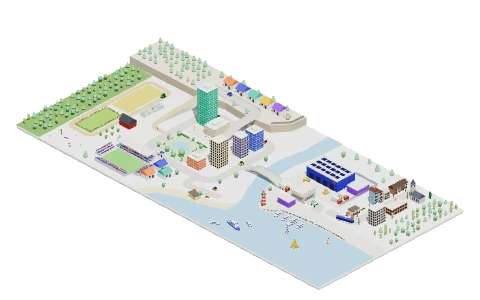
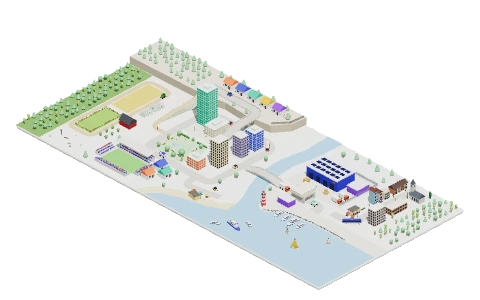
feat: Brightwater's streets meet at junctions, and its traffic drives on across them (#74)
- The ring road is cut into three roads (Ring road, Ring road (south-east), Ring road (south-west)) at T-junctions with the harbour road, the beach road and the hill trail, so the roads meet as one surface and the ring's markings stop there
- Cars, vans, the bus and the harbour trucks drive on from road to road; traffic on the ring keeps off the hill trail, and the cyclist keeps to it
- The high street isn't connected, so the tram has it to itself; the harbour road still ends in its turning area on the quay
- A lower, shorter bridge on the harbour road, and the high street starting at 29.5 (from the owner's edited world)
- Starter pictures made again; a fixture of Brightwater as it was before, which the old-format fixture is now compared with
- A test of its streets: every junction end read, no warnings, no traffic up the hill trail, the tram and cyclist on their own roads
- TODO: vehicles kept to their road share no traffic with the network's, and dead ends next to each other trap vehicles

diff --git a/src/templates/brightwater.ts b/src/templates/brightwater.ts
@@ -4,6 +4,7 @@ import {
 	type TAreaInput,
 	type TEntityInput,
 	type TFenceInput,
+	type TJunctionInput,
 	type TRoadInput,
 	type TScene,
 	type TSceneInput,
@@ -26,9 +27,11 @@ import { turned } from "./turned";
  * west, farmland (fields, a barn, greenhouses, an orchard and a tractor).
  *
  *   Areas: river and bay (one water area), beach, raised hill, plazas, park with a pond, stadium pitch, fields
- *   Roads: ring road (loop), bridge over the river, a flyover that climbs onto
- *          the hill, an embankment trail, a road through a tunnel that widens
- *          at the quay, and a hidden ferry route across the sea
+ *   Roads: a ring road round downtown, a bridge over the river, a flyover that
+ *          climbs onto the hill, an embankment trail, a road through a tunnel that
+ *          widens at the quay, and a hidden ferry route across the sea; the ring
+ *          road meets the others at junctions (ADR-0136), so traffic drives on
+ *          from one to another
  *   Fences: a railing along the marina, a chain-link fence round the logistics
  *          yard, a stone wall at the lookout, a hedge by the park and a
  *          paddock's rail fence
@@ -37,7 +40,11 @@ import { turned } from "./turned";
  */
 
 const RING_ID = "ring_road";
+/** The ring road's other two pieces: it's cut where the harbour road, beach road and hill trail meet it. */
+const RING_SOUTH_EAST_ID = "ring_road_south_east";
+const RING_SOUTH_WEST_ID = "ring_road_south_west";
 const BRIDGE_ID = "harbour_road";
+const BEACH_ROAD_ID = "beach_road";
 const HILL_ROAD_ID = "hill_road";
 const FERRY_ID = "ferry_route";
 const HIGH_STREET_ID = "high_street";
@@ -252,16 +259,39 @@ const AREAS: TAreaInput[] = [
 
 const ROADS: TRoadInput[] = [
 	{
+		// Round downtown, in three pieces between its junctions: this one from the hill trail
+		// past the hill to the harbour road.
 		id: RING_ID,
 		name: "Ring road",
 		kind: "road_01",
-		loops: true,
 		cornerRadius: 4,
 		points: [
+			[-22, 2],
 			[-22, -12],
 			[0, -12],
+			[0, -1],
+		],
+	},
+	{
+		id: RING_SOUTH_EAST_ID,
+		name: "Ring road (south-east)",
+		kind: "road_01",
+		cornerRadius: 4,
+		points: [
+			[0, -1],
 			[0, 10],
+			[-4, 10],
+		],
+	},
+	{
+		id: RING_SOUTH_WEST_ID,
+		name: "Ring road (south-west)",
+		kind: "road_01",
+		cornerRadius: 4,
+		points: [
+			[-4, 10],
 			[-22, 10],
+			[-22, 2],
 		],
 	},
 	{
@@ -272,9 +302,9 @@ const ROADS: TRoadInput[] = [
 		kind: "road_01",
 		cornerRadius: 2,
 		points: [
-			[1.2, -1],
-			[5.5, -1, 1.3],
-			[8.6, -1, 1.3],
+			[0, -1],
+			[6.5, -1, 0.8],
+			[8.6, -1, 0.8],
 			[14.5, -1],
 			[26, -1],
 			[26, 3.6, 0, 3.8],
@@ -305,7 +335,7 @@ const ROADS: TRoadInput[] = [
 		heldUpBy: "embankment",
 		showsRailings: false,
 		points: [
-			[-23.2, 2],
+			[-22, 2],
 			[-27.4, 2],
 			[-27.4, -8, 0.8],
 			[-26.4, -13.6, HILL],
@@ -313,13 +343,13 @@ const ROADS: TRoadInput[] = [
 		],
 	},
 	{
-		id: "beach_road",
+		id: BEACH_ROAD_ID,
 		name: "Beach road",
 		kind: "road_01",
 		width: 2,
 		cornerRadius: 3,
 		points: [
-			[-4, 11],
+			[-4, 10],
 			[-4, 14.6],
 			[6, 12.6],
 		],
@@ -356,7 +386,7 @@ const ROADS: TRoadInput[] = [
 		kind: "road_01",
 		cornerRadius: 2.5,
 		points: [
-			[28, -1],
+			[29.5, -1],
 			[36, -1],
 			[36, -22],
 		],
@@ -376,6 +406,43 @@ const ROADS: TRoadInput[] = [
 			[-34, 15.4],
 			[-41.4, 15.4],
 			[-41.4, -11.4],
+		],
+	},
+];
+
+// ---------------------------------------------------------------- junctions
+
+/** One end of a road at a junction; `leadsTo` keeps traffic arriving by it to those ends. */
+const end = (roadId: string, which: "start" | "end", leadsTo?: [string, "start" | "end"][]) => ({
+	roadId,
+	end: which,
+	leadsTo: leadsTo?.map(([id, to]) => ({ roadId: id, end: to })) ?? null,
+});
+
+/**
+ * Where the streets meet (ADR-0136): round the ring road. The high street isn't connected: it's
+ * the tram's, and traffic that came onto it from the network wouldn't see the tram (TODO.md).
+ */
+const JUNCTIONS: TJunctionInput[] = [
+	{
+		id: "ring_harbour",
+		ends: [end(RING_ID, "end"), end(RING_SOUTH_EAST_ID, "start"), end(BRIDGE_ID, "start")],
+	},
+	{
+		id: "ring_beach",
+		ends: [
+			end(RING_SOUTH_EAST_ID, "end"),
+			end(RING_SOUTH_WEST_ID, "start"),
+			end(BEACH_ROAD_ID, "start"),
+		],
+	},
+	{
+		// Traffic on the ring road keeps to it here: the hill trail is a footpath and cycle track.
+		id: "ring_trail",
+		ends: [
+			end(RING_SOUTH_WEST_ID, "end", [[RING_ID, "start"]]),
+			end(RING_ID, "start", [[RING_SOUTH_WEST_ID, "end"]]),
+			end(HILL_TRAIL_ID, "start"),
 		],
 	},
 ];
@@ -733,7 +800,7 @@ const traffic: TEntityInput[] = [
 		kind: "car_01",
 		name: "City car",
 		colors: paint({ body: "#e05a4a" }),
-		follow: { roadId: RING_ID, speed: 3.2, startDistance: 6 },
+		follow: { roadId: RING_ID, speed: 3.2, startDistance: 20 },
 		label: {
 			title: "Ring road",
 			dataKeys: ["ring_speed", "ring_flow"],
@@ -749,26 +816,26 @@ const traffic: TEntityInput[] = [
 		kind: "car_01",
 		name: "Taxi",
 		colors: paint({ body: "#e8b83a" }),
-		follow: { roadId: RING_ID, speed: 3, startDistance: 34 },
+		follow: { roadId: RING_SOUTH_EAST_ID, speed: 3, startDistance: 2 },
 	},
 	{
 		id: "ring_van",
 		kind: "delivery_van_01",
 		name: "Delivery van",
-		follow: { roadId: RING_ID, speed: 2.6, startDistance: 60 },
+		follow: { roadId: RING_SOUTH_WEST_ID, speed: 2.6, startDistance: 12 },
 	},
 	{
 		id: "harbour_truck",
 		kind: "truck_01",
 		name: "Harbour truck",
-		follow: { roadId: BRIDGE_ID, speed: 2.4, startDistance: 13 },
+		follow: { roadId: BRIDGE_ID, speed: 2.4, startDistance: 14.2 },
 	},
 	{
 		id: "harbour_van",
 		kind: "delivery_van_01",
 		name: "Parcel van",
 		colors: paint({ stripe: "#3cbf9a" }),
-		follow: { roadId: BRIDGE_ID, speed: 2.8, startDistance: 23 },
+		follow: { roadId: BRIDGE_ID, speed: 2.8, startDistance: 24.2 },
 	},
 	{
 		id: "hill_car",
@@ -1141,7 +1208,7 @@ const moreTraffic: TEntityInput[] = [
 		id: "ring_bus",
 		kind: "bus_01",
 		name: "Route 4 bus",
-		follow: { roadId: RING_ID, speed: 2.2, startDistance: 20 },
+		follow: { roadId: RING_ID, speed: 2.2, startDistance: 34 },
 	},
 	{
 		id: "old_town_tram",
@@ -1160,7 +1227,8 @@ const moreTraffic: TEntityInput[] = [
 		kind: "bicycle_01",
 		name: "Cyclist",
 		colors: paint({ riderTop: "#e2603b" }),
-		follow: { roadId: HILL_TRAIL_ID, speed: 1, startDistance: 2 },
+		// Up and down the trail, not out among the cars.
+		follow: { roadId: HILL_TRAIL_ID, speed: 1, startDistance: 3.2, drivesThroughJunctions: false },
 	},
 ];
 
@@ -1255,6 +1323,7 @@ export const createBrightwaterScene = (): TScene => {
 		},
 		areas: AREAS,
 		roads: ROADS,
+		junctions: JUNCTIONS,
 		fences: FENCES,
 		entities: [
 			...civic,

diff --git a/src/templates/brightwater.test.ts b/src/templates/brightwater.test.ts
@@ -1,0 +1,66 @@
+import { describe, expect, it } from "vitest";
+
+import { validateWorld } from "#/parts/validateWorld";
+import { roadNetworkOf } from "#/scene/junctions";
+import { drivesAcrossNetwork, pathAhead } from "#/scene/network";
+
+import { createBrightwaterScene } from "./brightwater";
+
+describe("the Brightwater template's streets (ADR-0136)", () => {
+	const scene = createBrightwaterScene();
+	const network = roadNetworkOf(scene.roads, scene.junctions);
+
+	it("meets at junctions with every end where it should be, and no warnings", () => {
+		const read = network.junctions.map((junction) => junction.ends.length);
+		expect(read).toEqual(scene.junctions.map((junction) => junction.ends.length));
+		const { problems, warnings } = validateWorld(JSON.parse(JSON.stringify(scene)));
+		expect(problems).toEqual([]);
+		expect(warnings).toEqual([]);
+	});
+
+	/** The roads a vehicle drives over the next `distance`, from where it starts. */
+	const roadsDriven = (id: string, distance: number) => {
+		const vehicle = scene.entities.find((entity) => entity.id === id);
+		const follow = vehicle?.follow;
+		if (!follow) {
+			throw new Error(`no vehicle ${id}`);
+		}
+		const options = {
+			driving: scene.traffic.drivingSide,
+			startDistance: follow.startDistance,
+			reverse: follow.drivesTheOtherWay,
+			seed: id,
+		};
+		return new Set(
+			pathAhead(network, follow.roadId, options, follow.startDistance, distance).roads,
+		);
+	};
+
+	it("lets the city's traffic drive on round the network, but never up the hill trail", () => {
+		const everywhere = new Set<string>();
+		for (const id of ["ring_car_1", "ring_car_2", "ring_van", "ring_bus", "harbour_truck"]) {
+			const roads = roadsDriven(id, 2000);
+			expect(roads.has("hill_trail"), id).toBe(false);
+			for (const road of roads) {
+				everywhere.add(road);
+			}
+		}
+		expect(everywhere.size).toBeGreaterThan(4);
+	});
+
+	it("keeps the tram to its own street, and the cyclist on the hill trail", () => {
+		// Nothing else can drive onto the high street: it isn't connected.
+		expect(network.connects("high_street")).toBe(false);
+		for (const [id, roadId] of [
+			["old_town_tram", "high_street"],
+			["hill_cyclist", "hill_trail"],
+		]) {
+			const vehicle = scene.entities.find((entity) => entity.id === id);
+			const road = scene.roads.find((r) => r.id === roadId);
+			expect(vehicle?.follow?.roadId).toBe(roadId);
+			expect(road && drivesAcrossNetwork(network, road, scene.traffic, vehicle?.follow)).toBe(
+				false,
+			);
+		}
+	});
+});

diff --git a/src/parts/repairWorld.test.ts b/src/parts/repairWorld.test.ts
@@ -16,13 +16,23 @@ const tidiedTemplates = TEMPLATES.filter((template) =>
 	existsSync(fixtureUrl(`${template.id}-1a50d84`)),
 );
 
+/**
+ * Templates whose world has changed since (not only its format): each is compared with a save of
+ * it made just before it changed, which reads back as the template built it then.
+ */
+const SAVED_BEFORE_IT_CHANGED: Record<string, string> = {
+	// Its roads meet at junctions since (ADR-0136).
+	brightwater: "brightwater-23f0fb2",
+};
+
 describe("reading a world saved before the format was tidied (ADR-0104)", () => {
 	it.each(tidiedTemplates.map((template) => [template.id, template] as const))(
-		"%s, as saved then, reads back exactly as the template builds it now",
+		"%s, as saved then, reads back exactly as the template built it before it last changed",
 		(id, template) => {
 			const { scene, report } = repairWorld(fixture(`${id}-1a50d84`));
 			expect(report).toBeNull();
-			expect(scene).toEqual(template.create());
+			const before = SAVED_BEFORE_IT_CHANGED[id];
+			expect(scene).toEqual(before ? repairWorld(fixture(before)).scene : template.create());
 		},
 	);
 

diff --git a/TODO.md b/TODO.md
@@ -38,7 +38,7 @@ Ideas from the owner, not designed yet. Each needs a design pass (and usually an
 - [ ] **Camera tours (data):** the camera controls of ADR-0062 are done, and a tour that steps through the viewpoints on its own in View mode (ADR-0139). Still to do: a tour that flies to whatever crossed a threshold in the data; maybe the tour coming back after a while without input, as the turntable does.
 - [ ] **Take control of a vehicle or person:** riding along (view only) is done (ADR-0040); next, actually drive or walk it yourself (keyboard/gamepad), leaving its road while you steer and rejoining afterwards. Needs people as a part for walking.
 - [ ] **More traffic behaviour:** following and overtaking are done (ADR-0042), and following through junctions (ADR-0136). Still to do: multi-lane roads (two lanes per direction, passing without the oncoming lane), vehicles meeting head-on on roads without lanes (a ferry route driven both ways), giving way inside a junction (vehicles from different roads can pass through each other there), traffic lights or stop signs at junctions (a traffic signal part that a junction's vehicles obey), and maybe a per-road "no overtaking" setting. *Data:* traffic density or speeds from values.
-- [ ] **Connected road networks, next (ADR-0136):** junctions are done: road ends meet at a junction drawn as one surface (roads cut back, markings stopping), vehicles drive on across the network choosing their way at random, and editing connects (dragging an end onto a road or its end, drawing from and onto roads), disconnects and keeps junctions together. Still to do: a junction's own handle in the view (it's moved by any of its ends) and in the outliner; junctions at different heights (a ramp's foot meeting a flyover) and an embankment under a raised junction; roundabouts; flows that drive on as background traffic are done (ADR-0147), but a flow that shows an amount still keeps to its road (an amount carried across junctions would need routing by data); routes that follow data (weights per way out, or a vehicle with a destination); joining the two halves back into one road automatically when a T's side road is deleted (**Join into one road** does it by hand); pasting roads with their junctions; and putting junctions into Brightwater and Lantern Bay, whose roads still overlap.
+- [ ] **Connected road networks, next (ADR-0136):** junctions are done: road ends meet at a junction drawn as one surface (roads cut back, markings stopping), vehicles drive on across the network choosing their way at random, and editing connects (dragging an end onto a road or its end, drawing from and onto roads), disconnects and keeps junctions together. Still to do: a junction's own handle in the view (it's moved by any of its ends) and in the outliner; junctions at different heights (a ramp's foot meeting a flyover) and an embankment under a raised junction; roundabouts; flows that drive on as background traffic are done (ADR-0147), but a flow that shows an amount still keeps to its road (an amount carried across junctions would need routing by data); routes that follow data (weights per way out, or a vehicle with a destination); joining the two halves back into one road automatically when a T's side road is deleted (**Join into one road** does it by hand); pasting roads with their junctions; and putting junctions into Lantern Bay, whose roads still overlap (Brightwater has them: its ring road in three pieces, with T-junctions to the harbour road, the beach road and the hill trail). **Vehicles kept to their road share no traffic with the network's:** a vehicle with Drive through junctions off (its own route sampler) and vehicles driving the network on the same road are grouped apart (`trafficFrame.ts` keys them `<road>` and `network:<road>`), so they don't keep their distance and drive through each other; put them in one stream per road and direction (which is why Brightwater's high street, the tram's, isn't connected). **Dead ends next to each other trap vehicles:** at random, a vehicle between two dead ends bounces from one to the other for a while (seen with the high street and the quay's turning area both off one junction); maybe a way out it has just driven weighs less.
 - [ ] **A third world: lights and time, next:** the Stockholm template is built (ADR-0135, ADR-0143; `docs/handover/stockholm.md`). Still to do from the first idea: houses on timers (a morning and an evening period), an office tower whose lit panes follow an Occupancy value, Light parts round a square on an evening schedule, a building coloured on a scale by a value. For Stockholm: Norrmalm's stone blocks with flat or mansard roofs, Södermalm east of Götgatan, Katarina kyrka, af Chapman as a full-rigged ship, Strandvägen's boats, the palaces' windows merged as the rows are (fewer draws on Ultra), and its shots in the README's gallery. *Engine gaps it showed:* roads don't follow raised land, so Götgatan climbs Södermalm point by point and Centralbron ends inside its cliff rather than in a real tunnel (ADR-0018); an island in water is raised land drawn over the water area rather than a hole in it (fine for drawing, but water reflections and waves can't know the shore).
 - [ ] **A traffic template (owner, 2026-11-06; after ADR-0147):** a starter world that shows every part of the traffic simulation, a viewpoint for each and a tour through them: junctions (a T, a crossroads, corners, a dead end); background traffic (flows that drive on through junctions: cars, vans, trucks, a bus); a data flow (a road whose width and vehicles follow a small from, to, amount table) beside it; vehicle objects that follow a road (a bus to select, follow and ride along, one kept to its own road with Drive through junctions off); following and overtaking (a slow lorry with faster cars behind on a long road); heights (a bridge over a river, a flyover on an embankment with its ramp, a tunnel portal); a ferry on a hidden route; traffic lights and headlights with an evening coming on. It avoids what isn't built yet (giving way inside a junction, junctions at different heights) rather than showing it off. Made the usual way (Add a template, AGENTS.md: the catalogue, its starter pictures, no validate warnings).
 - [ ] **Areas, next (ADR-0096):** corners with their own heights are done (slopes, ramps, the green arrow and G then Y on corners, a lift arrow on the whole area). Peaks inside areas are done too (ADR-0101), moved like corners (handle, gizmo, G, the arrow keys). Still to do: several peaks selected at once (box selection, moving them together); roads following a slope, and objects moving with an area when it's reshaped or raised (they stand on it when moved or dropped, ADR-0098); whether "raised" should be a shape setting for every surface (and "Raised land" a land surface that starts raised, `startHeight` in `scene/areas.ts`), and sloped water (water stays level for now so it can mirror the world; a sloped stream could be drawn without reflections). Towards **block modelling** (the owner's idea, 2026-10-28): a bottom per corner as well as a top, so a shape can float or overhang, and blocks as objects that can be turned and copied like parts. *Data:* a corner's or the whole area's height from a value (a rising water level, a stockpile's size).
